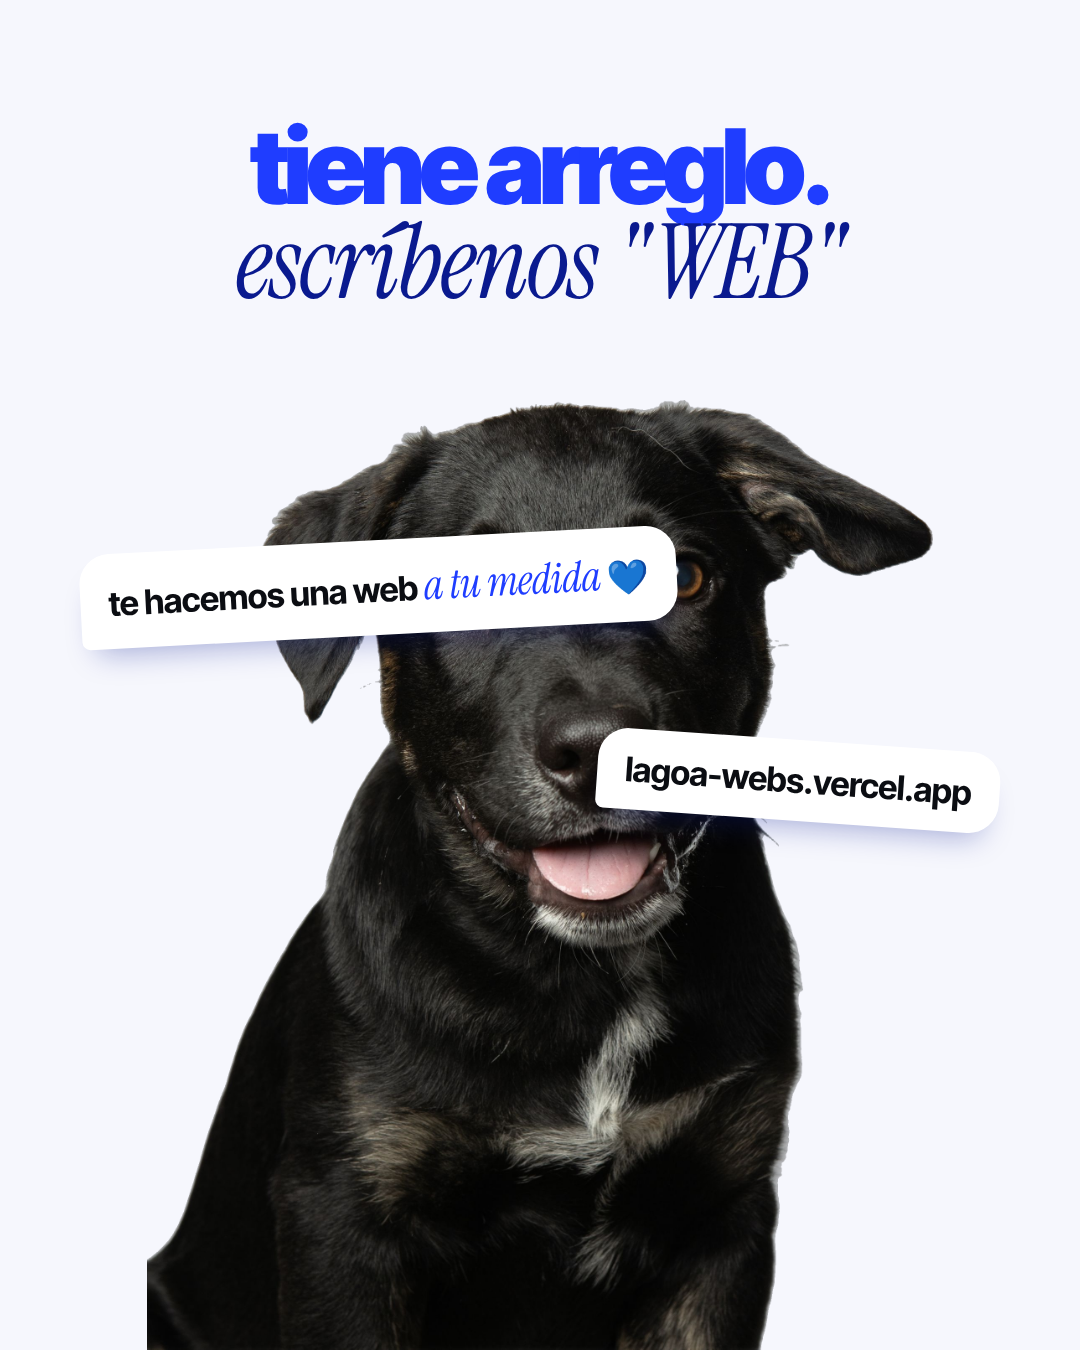
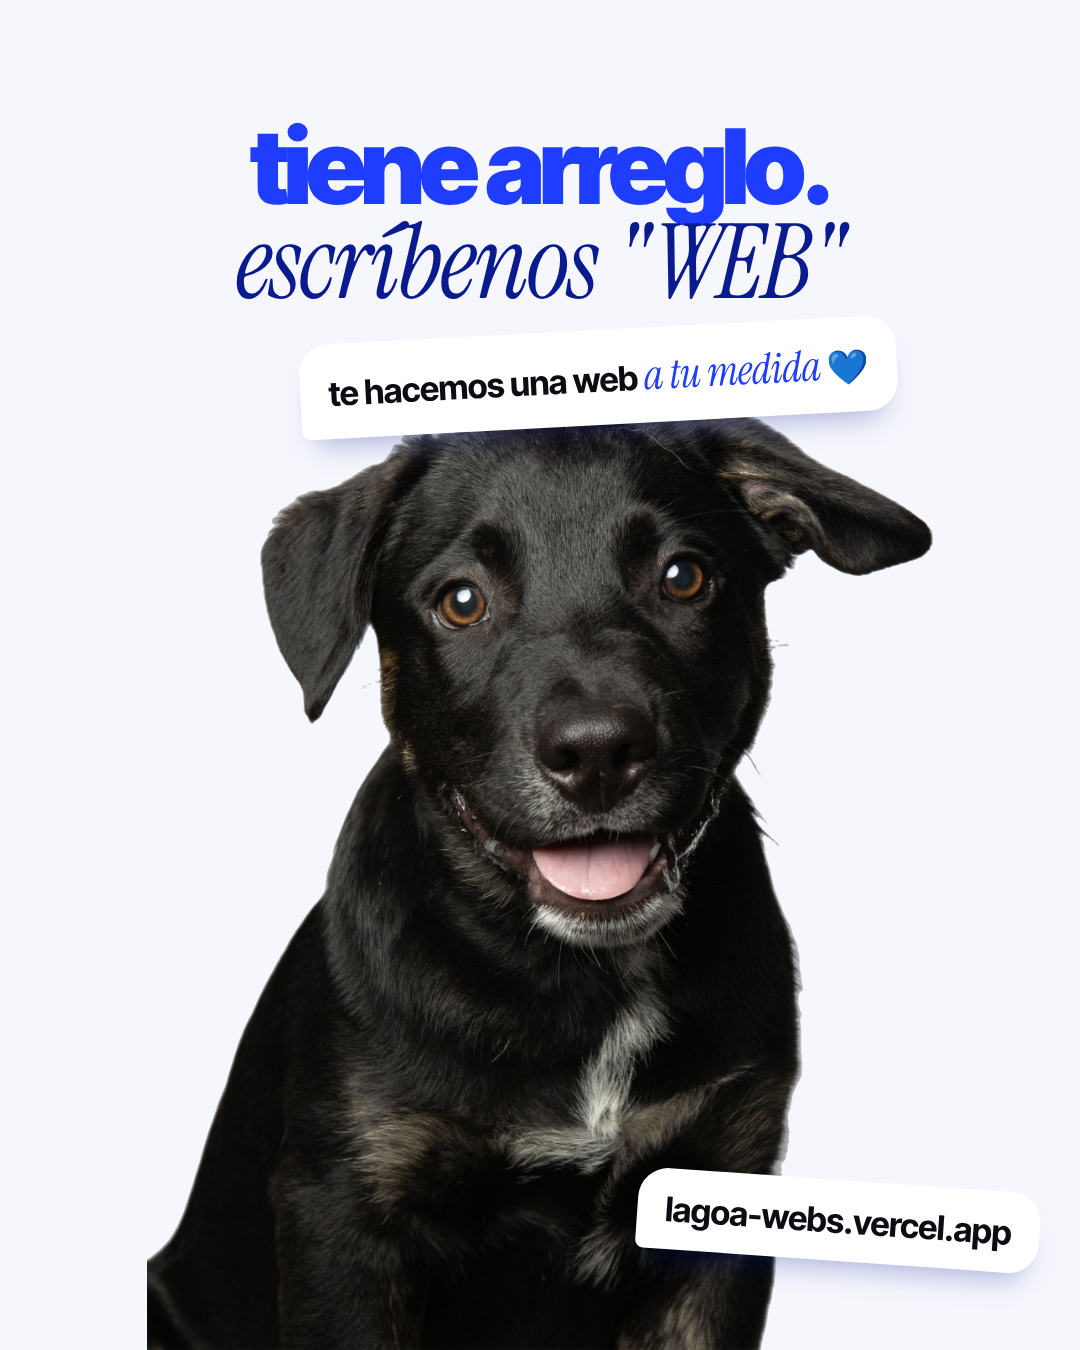
marketing: move bubbles off the puppy's face on trend 4 last slide
Claude-Session: https://claude.ai/code/session_01W5wU8kxQFk3NmTmcu9j8qv

diff --git a/marketing/instagram/trends-octubre/trends.html b/marketing/instagram/trends-octubre/trends.html
@@ -200,8 +200,8 @@
 <section class="slide t4" data-name="trend4-oye-acercate-03">
   <div class="h" style="font-size:104px">tiene arreglo.<br><em>escríbenos "WEB"</em></div>
   <div class="photo" data-src="fotos/animal-3.png"><div class="ph"><b>📷</b>FOTO: el mismo animalito contento</div></div>
-  <div class="bubble-txt" style="left:80px;top:540px;transform:rotate(-3deg)">te hacemos una web <span>a tu medida</span> 💙</div>
-  <div class="bubble-txt" style="right:80px;top:740px;transform:rotate(4deg)">lagoa-webs.vercel.app</div>
+  <div class="bubble-txt" style="left:300px;top:330px;transform:rotate(-3deg)">te hacemos una web <span>a tu medida</span> 💙</div>
+  <div class="bubble-txt" style="right:40px;top:1180px;transform:rotate(4deg)">lagoa-webs.vercel.app</div>
 </section>
 
 <script>
